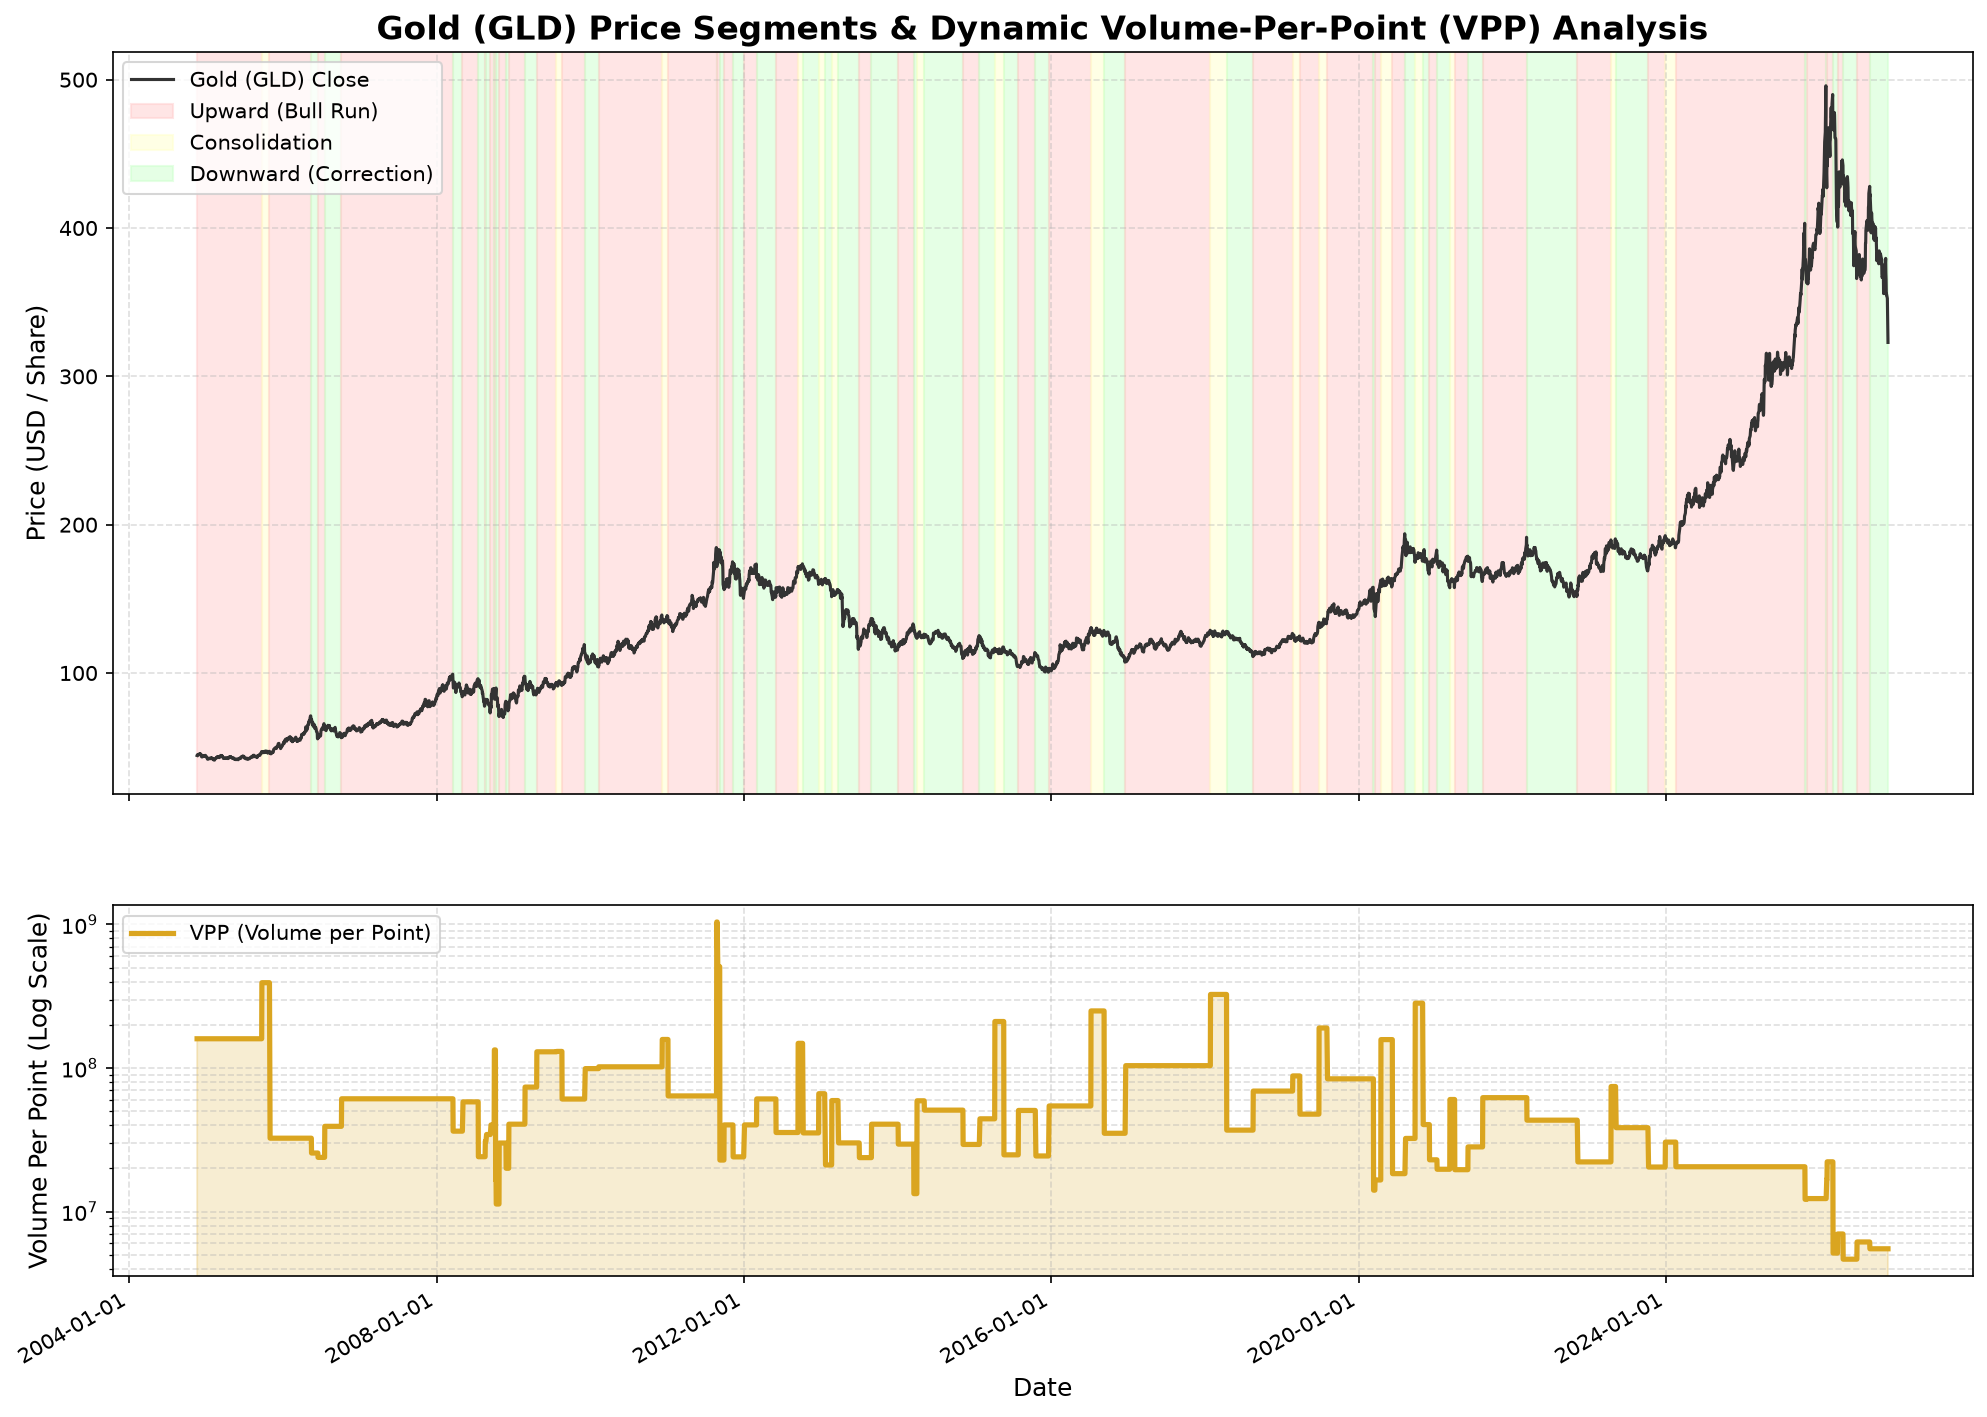
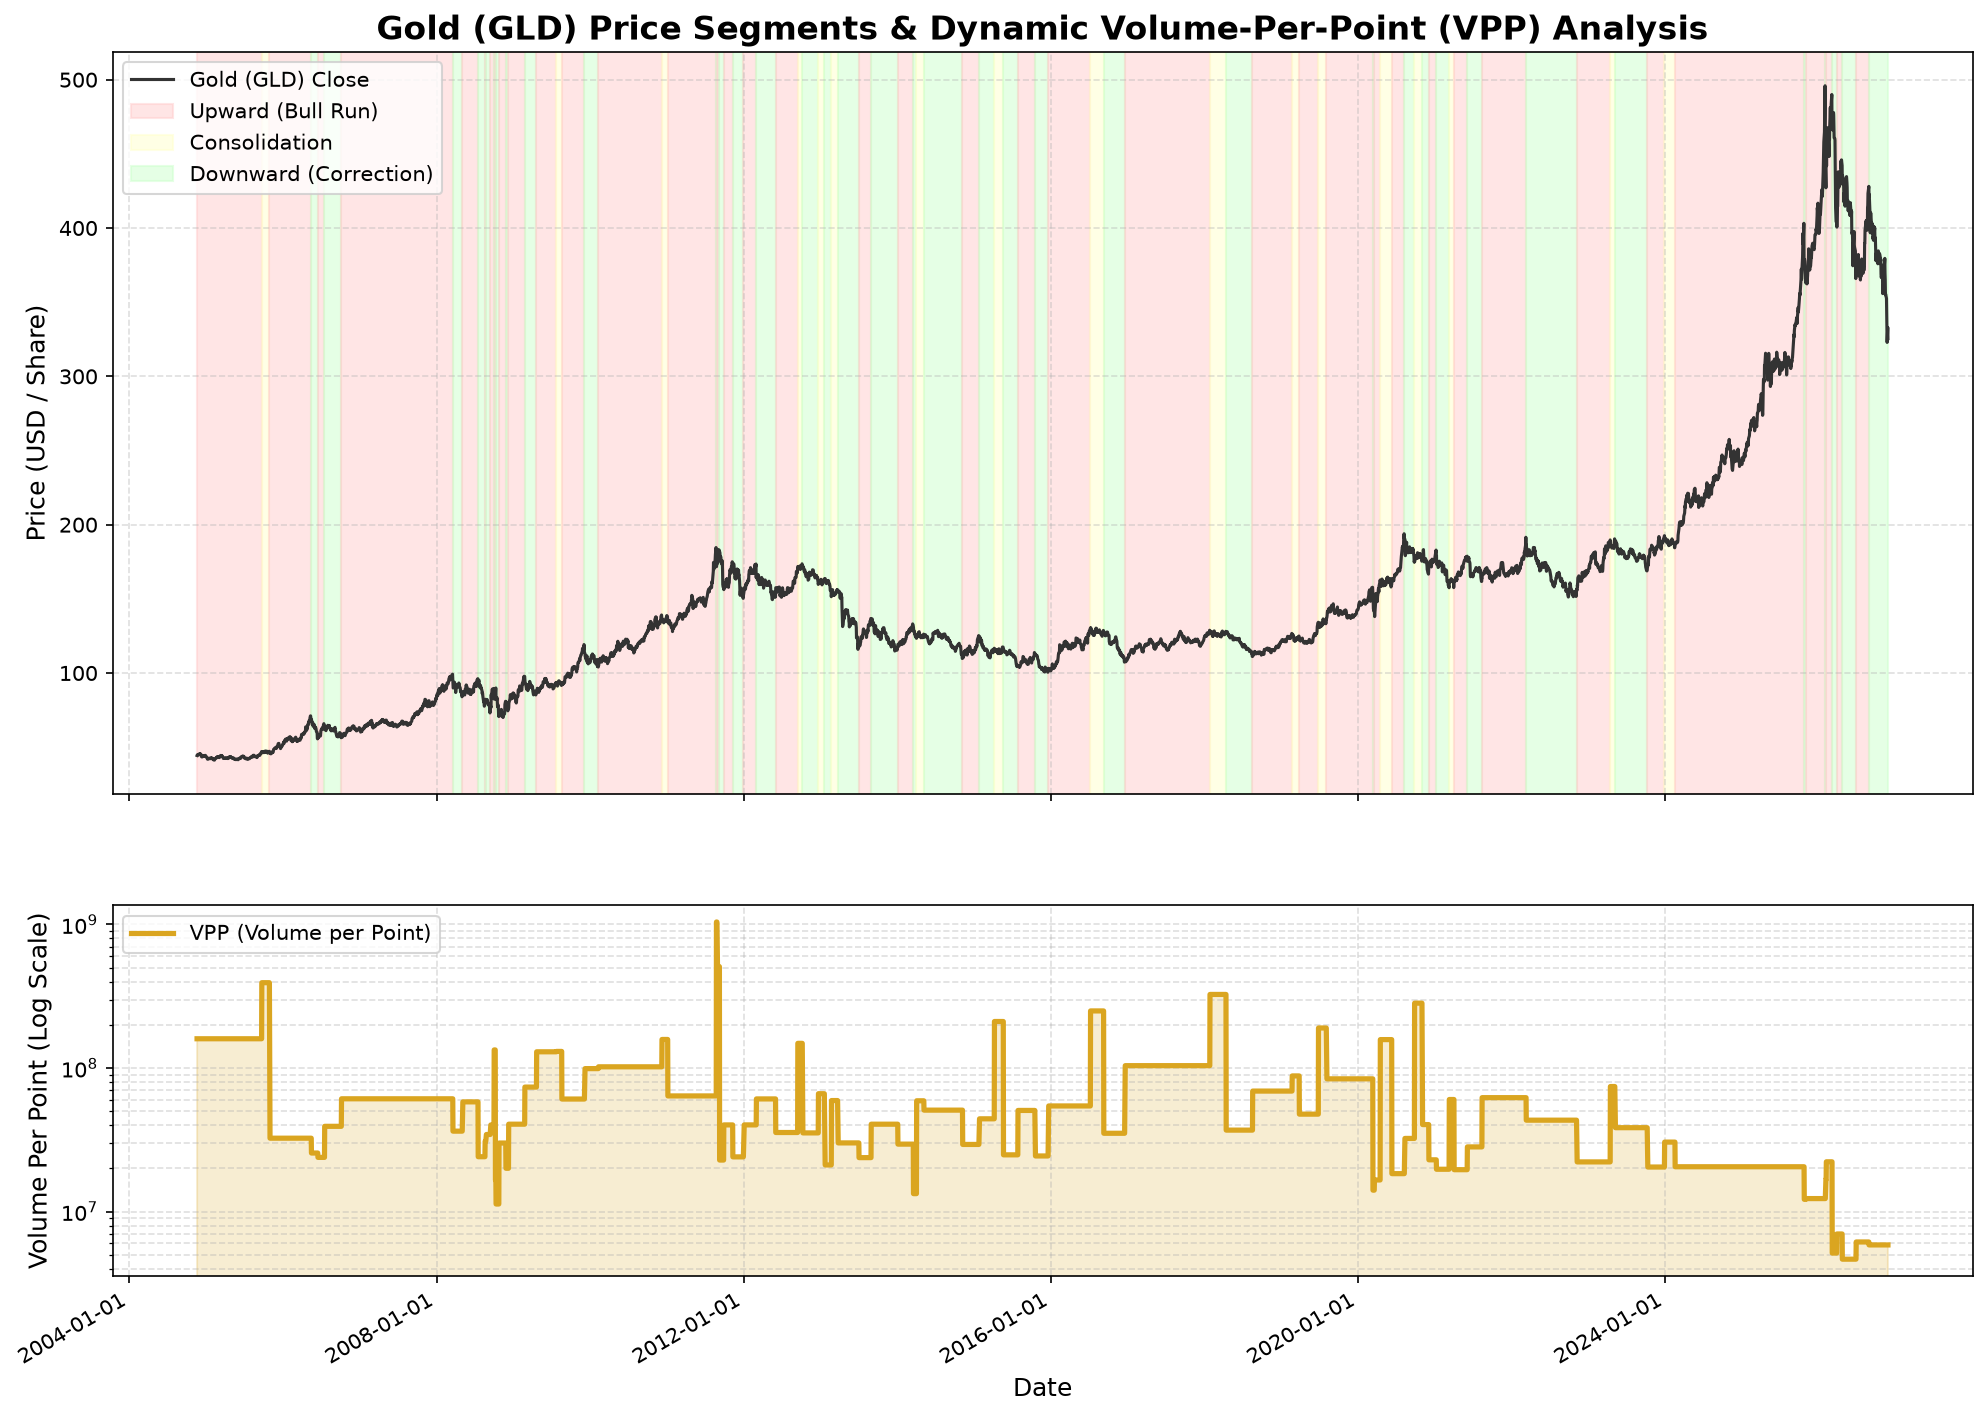
Auto-update gold momentum report & analysis (2026-11-25)

diff --git a/gold.html b/gold.html
@@ -57,7 +57,7 @@
                     <i class="fa-solid fa-coins text-amber-500"></i> 黃金動能效率與波動對稱分析報告
                 </h1>
                 <p class="text-sm text-gray-400 mt-1">
-                    標的：黃金 (GLD) ｜ 模型：雙速量價效率與波動對稱模型 ｜ 更新日期：2026-11-24
+                    標的：黃金 (GLD) ｜ 模型：雙速量價效率與波動對稱模型 ｜ 更新日期：2026-11-25
                 </p>
             </div>
             <div class="flex items-center gap-3">
@@ -116,7 +116,7 @@
 ================================================================================
 【1. 量價效率分析 (Volume-Per-Point, VPP)】
   * 上漲波段: 平均移動 1 點需消耗 56,856,122 股之成交量
-  * 下跌波段: 平均移動 1 點需消耗 61,155,437 股之成交量
+  * 下跌波段: 平均移動 1 點需消耗 61,164,925 股之成交量
   * 盤整波段: 平均移動 1 點需消耗 157,912,081 股之成交量
   * 💡 學術結論：黃金盤整期 VPP 為趨勢期之數倍，籌碼高密集蓄能！
 --------------------------------------------------------------------------------
@@ -128,24 +128,24 @@
 --------------------------------------------------------------------------------
 【2. 波動等幅對稱與統計 (下跌修正波段)】
   * 歷史波段數: 37 次
-  * 平均幅度: -10.24% (中位數: -9.47%)
-  * 最大幅度: -24.58% | 最小幅度: 2.10%
-  * 平均持續天數: 42.9 天 (中位數: 39 天)
+  * 平均幅度: -10.22% (中位數: -9.47%)
+  * 最大幅度: -23.97% | 最小幅度: 2.10%
+  * 平均持續天數: 43.0 天 (中位數: 39 天)
 --------------------------------------------------------------------------------
 【3. 當前黃金波段評估與歷史波段對稱性機率落點與勝率列表】
   [長線大趨勢 (10% 門檻錨定)]
   * 當前波段類型: 下跌
   * 波段起始日期: 2026-08-25
   * 波段起始價格: 428.07
-  * 當前價格 (2026-11-20): 322.87
-  * 目前波段累計漲跌: -24.58%
-  * 目前已持續交易日: 61 天
+  * 當前價格 (2026-11-24): 325.45
+  * 目前波段累計漲跌: -23.97%
+  * 目前已持續交易日: 63 天
 
   [短線動能預警 (3% 領先燈號)]
   * 短線波段狀態: 短線拉回下跌
-  * 短線轉折日期: 2026-11-09 (基準價 380.18)
-  * 短線累計漲跌: -15.07%
-  * 短線持續天數: 9 天
+  * 短線轉折日期: 2026-11-23 (基準價 338.00)
+  * 短線累計漲跌: -3.71%
+  * 短線持續天數: 1 天
   * 前一波下跌段幅: 16.43% (對稱基準點)
 
   * 💡 歷史波段對稱性機率落點與勝率列表 (Win Rate Targets):
@@ -159,7 +159,7 @@
     60%                  | 0.7341          | 12.06           % | 376.44                | 🔴 已達成
     50%                  | 0.9689          | 15.92           % | 359.93                | 🔴 已達成
     40%                  | 1.1400          | 18.73           % | 347.89                | 🔴 已達成
-    30%                  | 1.4960          | 24.58           % | 322.85                | ⚪ 未達成
+    30%                  | 1.4829          | 24.36           % | 323.78                | 🔴 已達成
     20%                  | 1.9116          | 31.41           % | 293.62                | ⚪ 未達成
     10%                  | 3.6433          | 59.86           % | 171.83                | ⚪ 未達成
     -----------------------------------------------------------------------------------------------
